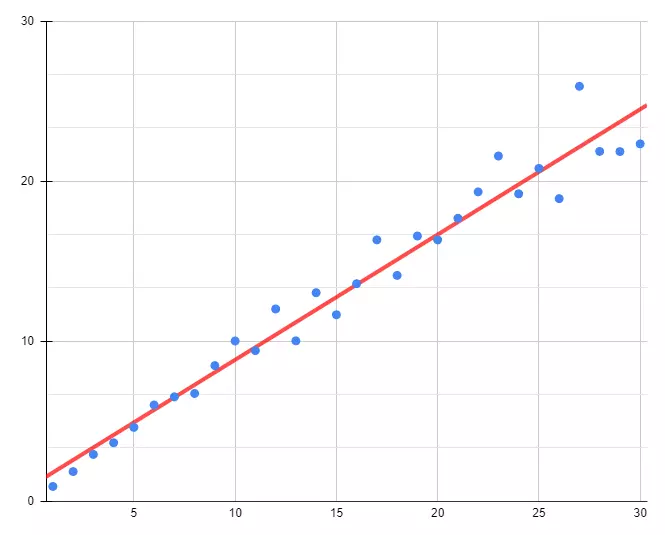
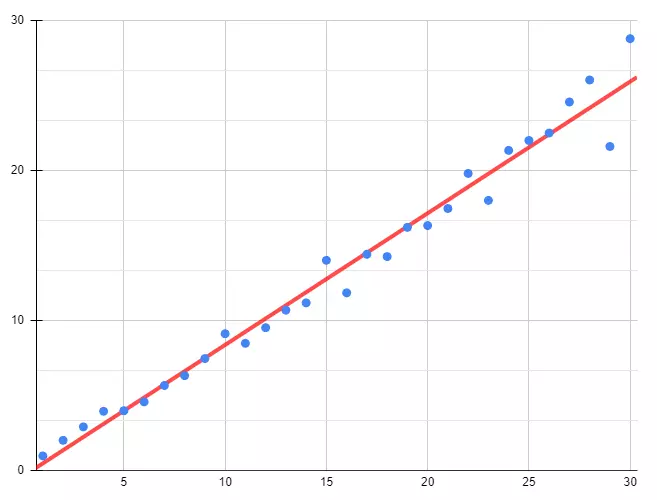
[문서] : Pytorch 4강을 작성한다

diff --git a/_posts/Python-Pytorch/2022-02-12-Python-pytorch-4.md b/_posts/Python-Pytorch/2022-02-12-Python-pytorch-4.md
@@ -1,0 +1,217 @@
+---
+layout: post
+title: "Python Pytorch 강좌 : 제 4강 - 손실 함수(Loss Function)"
+tagline: "Python PyTorch Loss Function"
+image: /assets/images/pytorch.webp
+header:
+  image: /assets/patterns/asanoha-400px.png
+tags: ['PyTorch']
+keywords: Python, Python Pytorch, Pytorch Loss Function, Pytorch Squared Error, Pytorch Sum of Squared for Error, Pytorch Mean Squared Error
+ref: Python-PyTorch
+category: Python
+permalink: /posts/Python-pytorch-4/
+comments: true
+toc: true
+---
+
+## 손실 함수(Loss Function)
+
+`손실 함수(Loss Function)`는 `비용 함수(Cost Function)`라고도 하며, 실젯값과 예측값이 차이가 발생했을 때 그 오차가 얼마인지 계산하는 함수입니다.
+
+`인공 신경망(Neural Network)`의 학습 방법은 실젯값과 예측값의 오차를 최대한 줄이는 방법으로 진행하는 데 이 때 발생하는 오찻값을 계산하기 위해 사용합니다.
+
+즉, 손실 함수는 오차를 0에 가깝게 만들어 예측의 정확도를 높이는 것에 목적을 둡니다. 
+
+다음 표와 그래프는 앞선 [제 3강 - 가설(Hypothesis)][3강]의 데이터에서 **선형 회귀 그래프에 대한 예측값과 실젯값의 오차를 포함합니다.**
+
+<div style="display: flex;">
+<div style="width: 50%;">
+<table>
+  <thead>
+    <tr>
+      <th style="text-align: center">X</th>
+      <th style="text-align: center">Y(실젯값)</th>
+      <th style="text-align: center">예측값</th>
+      <th style="text-align: center">오차</th>
+    </tr>
+  </thead>
+  <tbody>
+    <tr>
+      <td style="text-align: center">1</td>
+      <td style="text-align: center">0.94</td>
+      <td style="text-align: center">0.443</td>
+      <td style="text-align: center">0.497</td>
+    </tr>
+    <tr>
+      <td style="text-align: center">2</td>
+      <td style="text-align: center">1.98</td>
+      <td style="text-align: center">1.322</td>
+      <td style="text-align: center">0.658</td>
+    </tr>
+    <tr>
+      <td style="text-align: center">3</td>
+      <td style="text-align: center">2.88</td>
+      <td style="text-align: center">2.201</td>
+      <td style="text-align: center">0.679</td>
+    </tr>
+    <tr>
+      <td style="text-align: center">4</td>
+      <td style="text-align: center">3.92</td>
+      <td style="text-align: center">0.84</td>
+      <td style="text-align: center">0.84</td>
+    </tr>
+    <tr>
+      <td style="text-align: center">5</td>
+      <td style="text-align: center">3.96</td>
+      <td style="text-align: center">3.959</td>
+      <td style="text-align: center">0.001</td>
+    </tr>
+    <tr>
+      <td style="text-align: center">6</td>
+      <td style="text-align: center">4.55</td>
+      <td style="text-align: center">4.838</td>
+      <td style="text-align: center">-0.288</td>
+    </tr>
+    <tr>
+      <td style="text-align: center">7</td>
+      <td style="text-align: center">5.64</td>
+      <td style="text-align: center">5.717</td>
+      <td style="text-align: center">-0.077</td>
+    </tr>
+    <tr>
+      <td style="text-align: center">8</td>
+      <td style="text-align: center">6.3</td>
+      <td style="text-align: center">6.596</td>
+      <td style="text-align: center">-0.296</td>
+    </tr>
+    <tr>
+      <td style="text-align: center">9</td>
+      <td style="text-align: center">7.44</td>
+      <td style="text-align: center">7.475</td>
+      <td style="text-align: center">-0.035</td>
+    </tr>
+    <tr>
+      <td style="text-align: center">10</td>
+      <td style="text-align: center">9.1</td>
+      <td style="text-align: center">8.354</td>
+      <td style="text-align: center">0.746</td>
+    </tr>
+    <tr>
+      <td style="text-align: center">…</td>
+      <td style="text-align: center">…</td>
+      <td style="text-align: center">…</td>
+      <td style="text-align: center">…</td>
+    </tr>
+  </tbody>
+</table>
+
+$$
+\begin{multline}
+\shoveleft H(x) = Wx + b\\
+\shoveleft W = 0.879\\
+\shoveleft b = -0.436\\\\
+\shoveleft \therefore \ H(x) = 0.879x - 0.436
+\end{multline}
+$$
+
+</div>
+<div>
+<img data-src="{{ site.images }}/assets/posts/Python/PyTorch/lecture-4/1.webp" class="lazyload" width="100%" height="100%"/>
+</div>
+</div>
+
+위 표의 `오차`는 `실젯값 - 예측값`에 대한 수치입니다.
+
+우측 그래프에서 오차는 `녹색 화살표`로 표현하였습니다.
+
+오차는 **예측값이 얼마나 실젯값을 잘 표현하는지 알 수 있습니다.**
+
+하지만, 이러한 방법은 각각의 데이터에 대한 오차를 확인할 수 있는 방법이므로 `가설(Hypothesis)`이 얼마나 실젯값을 정확하게 표현하는지는 알 수 없습니다.
+
+그러므로, `평균 제곱 오차(Mean Squared Error, MSE)`을 적용하여 생성된 가설이 얼마나 정확하게 표현하는지 계산합니다.
+
+<br>
+<br>
+
+## 제곱 오차(Squared Error, SE)
+
+위 수식에서 사용된 `평균 제곱 오차(Mean Squared Error, MSE)` 방법은 `제곱 오차(Squared Error, SE)`와 `오차 제곱합(Sum of Squared for Error, SSE)`를 활용합니다.
+
+먼저 `제곱 오차(Squared Error)`는 `실젯값`과 `예측값`을 **감산한 값의 제곱을 의미합니다.**
+
+수식으로 표현한다면 다음과 같습니다.
+
+<br>
+
+$$ SE = (\hat{Y_{i}} - Y_{i})^2 $$
+
+<br>
+
+만약, 제곱을 취하지 않는다면 양의 방향이나 음의 방향의 오차의 차이를 알 수 있지만 방향보다는 **오차의 크기**가 중요한 요소기 때문에 제곱을 취하게 됩니다.
+
+제곱 대신에 절댓값을 취하지 않는 이유로는 **제곱을 적용하면 비교적 오차가 작은 값보다 오차가 큰 값을 확대시키기 때문에 오차의 간극을 빠르게 확인할 수 있습니다.**
+
+즉, 제곱을 취하기 때문에 오차가 커질수록 각 데이터마다 오차의 크기를 빠르게 확인할 수 있습니다.
+
+<br>
+<br>
+
+## 오차 제곱합(Sum of Squared for Error, SSE)
+
+`오차 제곱합(Sum of Squared for Error)`은 `제곱 오차(Squared Error)`를 모두 더한 값이 됩니다.
+
+`제곱 오차(Squared Error)`는 각 데이터마다의 오차를 의미하므로 `가설(Hypothesis)` 또는 `모델(Model)` 자체가 얼마나 정확히 예측을 하는지 알 수 없습니다.
+
+그러므로, 모든 제곱 오차를 더하여 하나의 값으로 가설이나 모델을 평가할 수 있습니다.
+
+수식으로 표현한다면 다음과 같습니다.
+
+<br>
+
+$$ SSE = \sum_{i=1}^{n}(\hat{Y_{i}} - Y_{i})^2 $$
+
+<br>
+
+만약 여기서도 오찻값들을 제곱하지 않고 모두 더하는 방법이라면 문제가 발생하게됩니다.
+
+오찻값이 `(-1, 1, -1, 1)`과 같은 형태라면 **모든 합계가 0이 되어 오차가 없는 것처럼 보여집니다.**
+
+이러한 현상을 방지하기 위해 모든 값을 제곱한 값에 대한 평균으로 오차를 계산합니다.
+
+<br>
+<br>
+
+## 평균 제곱 오차(Mean Squared Error, MSE)
+
+`평균 제곱 오차(Mean Squared Error, MSE)` 방법은 단순하게 `오차 제곱합(Sum of Squared for Error, SSE)`에서 **평균**을 취하는 방법입니다.
+
+오차 제곱합과 평균 제곱 오차는 의미로는 큰 차이가 없지만, 데이터가 많아질수록 오차 제곱합도 동일하게 커지게 됩니다.
+
+이렇게 되는 경우 오차가 많은 것인지 데이터가 많은 것인지 구분하기가 어려워지므로, 모든 데이터의 개수만큼 나누어 평균을 취합니다.
+
+평균 제곱 오차 방법을 수식으로 표현하고 위 데이터의 값을 적용한다면 다음과 같습니다.
+
+<br>
+
+$$
+\begin{multline}
+\shoveleft MSE = \frac{1}{n} \sum_{i=1}^{n} (\hat{Y_{i}} - Y_{i})^2\\
+\shoveleft MSE = \frac{1}{30} ((0.94-0.443)^2 + (1.98-1.322)^2 + (2.88-2.201)^2 + (3.92-3.08)^2 + ...)\\
+\shoveleft MSE = \frac{1}{30} (0.497^2 + 0.658^2 + 0.679^2 + 0.84^2 + ...)
+\end{multline}
+$$
+
+<br>
+
+평균 제곱 오차는 **가설의 품질을 측정할 수 있으며, 오차가 0에 가까워질수록 높은 품질을 갖게 됩니다.**
+
+주로 **회귀 분석(Regression)**에서 많이 사용되는 손실 함수이며, `최대 신호 대 잡음비(Peak Signal-to-noise ratio, PSNR)`를 계산하는데에도 사용됩니다.
+
+또한, 이 값에 `루트(Root)`를 씌우는 경우에는 `평균 제곱근 오차(Root Mean Squared Error, RMSE)`가 됩니다.
+
+루트를 통해 `평균 제곱 오차(Mean Squared Error, MSE)`에서 발생한 왜곡을 감소시켜, **정밀도(Precision)**를 표현하는데 적합한 형태가 됩니다.
+
+- Tip : 오차에 제곱을 적용하여 오차량이 큰 값을 크게 부풀렸기 때문에 왜곡이 발생합니다. 
+
+
+[3강]: https://076923.github.io/posts/Python-pytorch-3/

diff --git a/_posts/Python-Pytorch/2022-02-05-Python-pytorch-3.md b/_posts/Python-Pytorch/2022-02-05-Python-pytorch-3.md
@@ -123,7 +123,9 @@ toc: true
 
 `데이터(X, Y)`를 기반으로 `가설(Hypothesis)`을 세울 수 있게 됩니다.
 
-**빨간색 선**이 `가설(Hypothesis)`을 의미하며 수식으로는 $$ y = ax + b $$로 표현할 수 있습니다.
+**빨간색 선**이 `가설(Hypothesis)`을 의미하며, `선형 회귀(Linear Regression)`를 통해 계산된 값입니다.
+
+수식으로는 $$ y = ax + b $$로 표현할 수 있습니다.
 
 $$ a $$ 는 **기울기**가 되며, $$ b $$는 **절편**이 됩니다. 단, 기계 학습에서는 $$ y = ax + b $$의 형태가 아닌 $$ H(x) = Wx + b $$로 표현합니다.
 
